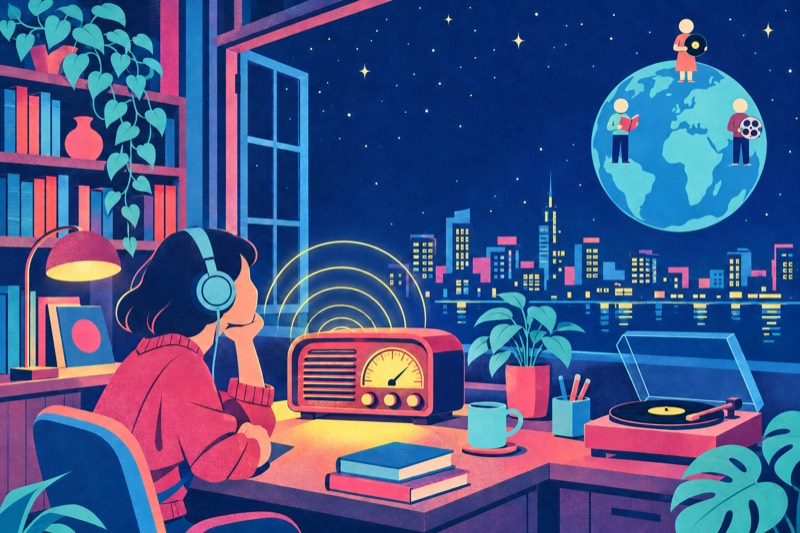
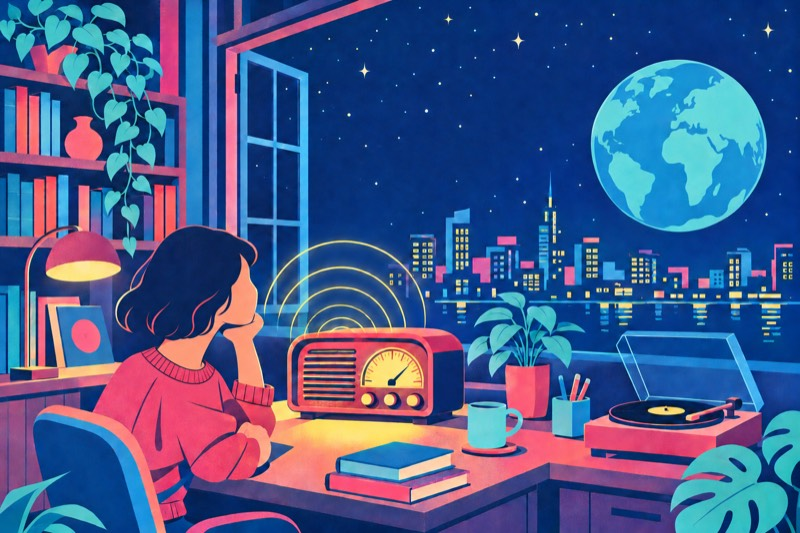
feat: final key visual (no globe figures, no headphones)

diff --git a/docs/DESIGN.md b/docs/DESIGN.md
@@ -102,7 +102,7 @@ CSS 変数は `:root` にライト、`@media (prefers-color-scheme: dark)` と `
 
 ## 7. 素材
 
-- キービジュアル: `public/kv.jpg`（1280 幅）、`public/kv-mobile.jpg`（800 幅）。alt は「机でレトロなラジオを聴く人と、世界の誰かの好きなもの」。元 PNG は private workspace `outputs/2026-11-05-kv-source.png`。差し替えるときは同じ構図（机の人、ラジオの電波の弧、地球に顔のない人影 3 人、線は無し）。
+- キービジュアル: `public/kv.jpg`（1280 幅）、`public/kv-mobile.jpg`（800 幅）。alt は「机でレトロなラジオを聴く人と、世界の誰かの好きなもの」。元 PNG は private workspace `outputs/2026-11-05-kv-source.png`。差し替えるときは同じ構図（机に頬杖をついてラジオを聴く人。ヘッドホンは無し。ラジオの電波の弧、夜景の上の無人の地球。人影や線は入れない。本人確定 2026-11-05 第 3 版）。
 - 模型: `docs/design/station-mock.html`。ブラウザで開くと ライト / ダーク、PC 幅 / スマホ幅 を切り替えて確かめられる。
 - アイコン / manifest の `theme-color` はダークの `--paper` `#121a2e`。
 
